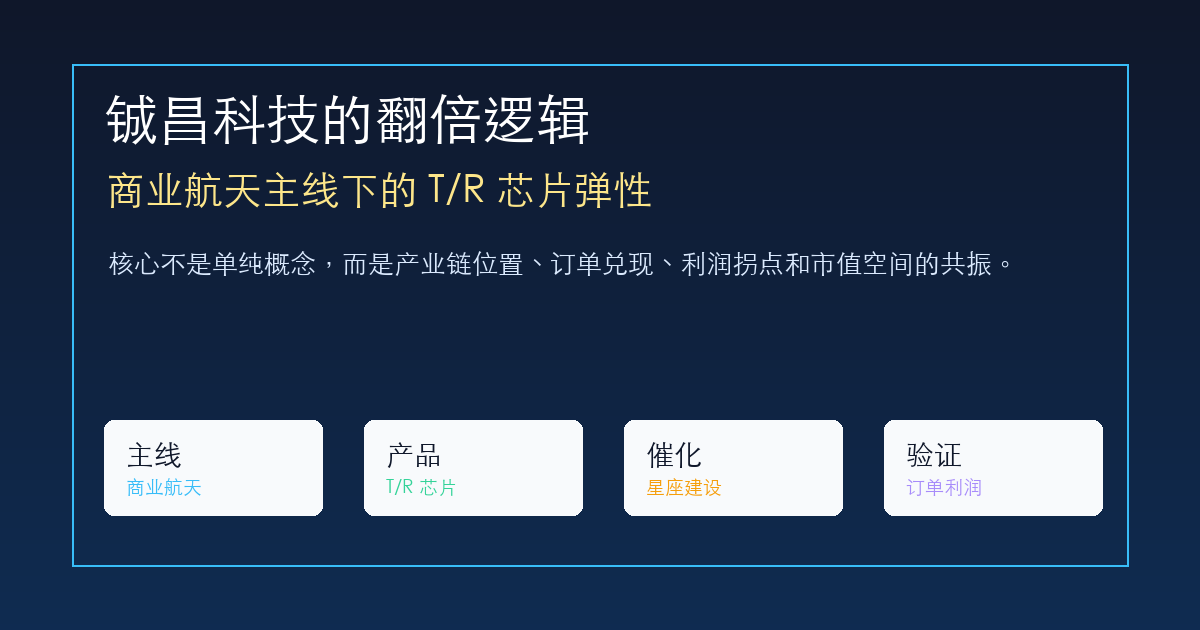
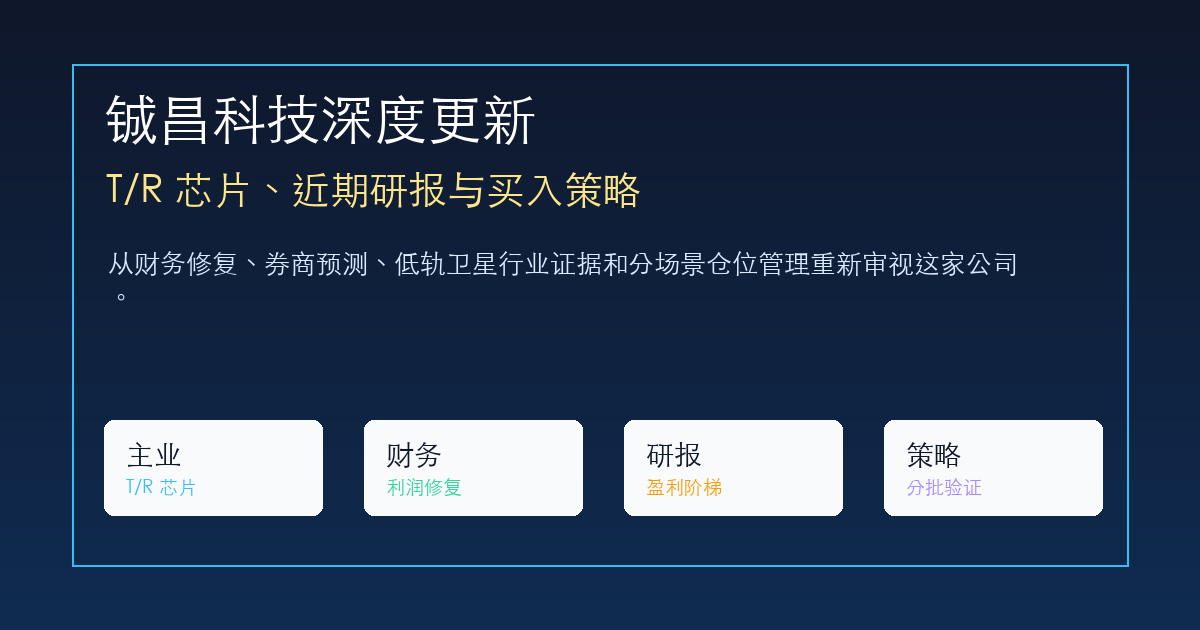
Expand Chengchang Tech research article

diff --git a/2026/chengchang-tech-commercial-aerospace-tr-chip-thesis/index.html b/2026/chengchang-tech-commercial-aerospace-tr-chip-thesis/index.html
@@ -1,9 +1,9 @@
 <!DOCTYPE html><html lang="zh-CN"><head>
   <meta charset="utf-8"><meta name="viewport" content="width=device-width,initial-scale=1,viewport-fit=cover">
-  <meta name="generator" content="Custom static archive"><title>铖昌科技的翻倍逻辑：商业航天主线下的 T/R 芯片弹性 - zcxGGmu's Blog</title>
-  <meta name="description" content="铖昌科技的核心看点，不是简单的商业航天概念，而是相控阵 T/R 芯片在低轨卫星、卫星互联网和国产替代中的产业链位置。翻倍逻辑成立，需要主线、订单、业绩、估值和市值弹性同时兑现。"><meta name="author" content="zcxGGmu"><meta name="theme-color" content="#f8fafc">
+  <meta name="generator" content="Custom static archive"><title>铖昌科技深度更新：T/R 芯片、近期研报与买入策略 - zcxGGmu's Blog</title>
+  <meta name="description" content="铖昌科技的投资价值不能只看商业航天概念，而要拆开 T/R 芯片产品位置、2025 年以来的财务修复、近期券商研报预测、低轨卫星行业证据、估值压力和分场景买入策略。"><meta name="author" content="zcxGGmu"><meta name="theme-color" content="#f8fafc">
   <meta property="og:url" content="https://zcxggmu.github.io/2026/chengchang-tech-commercial-aerospace-tr-chip-thesis/"><meta property="og:site_name" content="zcxGGmu's Blog">
-  <meta property="og:title" content="铖昌科技的翻倍逻辑：商业航天主线下的 T/R 芯片弹性"><meta property="og:description" content="铖昌科技的核心看点，不是简单的商业航天概念，而是相控阵 T/R 芯片在低轨卫星、卫星互联网和国产替代中的产业链位置。翻倍逻辑成立，需要主线、订单、业绩、估值和市值弹性同时兑现。"><meta property="og:locale" content="zh_cn"><meta property="og:type" content="article">
+  <meta property="og:title" content="铖昌科技深度更新：T/R 芯片、近期研报与买入策略"><meta property="og:description" content="铖昌科技的投资价值不能只看商业航天概念，而要拆开 T/R 芯片产品位置、2025 年以来的财务修复、近期券商研报预测、低轨卫星行业证据、估值压力和分场景买入策略。"><meta property="og:locale" content="zh_cn"><meta property="og:type" content="article">
   <meta name="twitter:card" content="summary_large_image"><link rel="canonical" href="https://zcxggmu.github.io/2026/chengchang-tech-commercial-aerospace-tr-chip-thesis/">
   <link rel="icon" type="image/png" sizes="16x16" href="/images/favicon-16.png"><link rel="icon" type="image/png" sizes="32x32" href="/images/favicon-32.png"><link rel="apple-touch-icon" sizes="180x180" href="/images/favicon-180.png"><link rel="icon" type="image/png" sizes="192x192" href="/images/favicon-192.png">
   <script>(function(){var key="blog-theme";var sidebarKey="blog-sidebar-collapsed";var theme="";try{theme=localStorage.getItem(key)||""}catch(_){}if(theme!=="light"&&theme!=="dark"){theme=window.matchMedia&&window.matchMedia("(prefers-color-scheme: dark)").matches?"dark":"light";}document.documentElement.dataset.theme=theme;document.documentElement.style.colorScheme=theme;try{if(localStorage.getItem(sidebarKey)==="1") document.documentElement.classList.add("sidebar-collapsed");}catch(_){}})();</script>
@@ -16,16 +16,46 @@
 <div id="drawer-overlay" class="single-column-drawer-overlay" style="display:none" role="button" tabindex="0" aria-label="关闭菜单" onclick="toggleDrawer()" onkeydown="(event.key===&quot;Enter&quot;||event.key===&quot; &quot;||event.key===&quot;Escape&quot;)&amp;&amp;(event.preventDefault(),toggleDrawer())"></div>
 <nav id="navBar" class="navbar sticky-top navbar-light single-column-nav-container"><div id="navBackground" class="nav-background"></div><div class="container container-narrow nav-content"><button id="nav_dropdown_btn" class="nav-dropdown-toggle" type="button" aria-label="打开菜单" aria-expanded="false" onclick="toggleDrawer()"><span class="nav-menu-symbol" aria-hidden="true">☰</span></button><a id="navTitle" class="navbar-brand" href="/">zcxGGmu's Blog</a><button class="theme-toggle theme-toggle-mobile" type="button" data-theme-toggle title="切换深色模式" aria-label="切换深色模式" aria-pressed="false"><span class="material-icons theme-toggle-icon" aria-hidden="true">dark_mode</span></button></div></nav>
 <div class="single-column-header-container" id="pageHead"><a href="/"><img class="mobile-site-avatar" src="/images/avatar.png" alt="zcxGGmu" loading="lazy"><div class="single-column-header-title">zcxGGmu's Blog</div><div class="single-column-header-subtitle">心无挂碍，无挂碍故，无有恐怖</div></a></div>
-<div id="content"><div id="streamContainer" class="stream-container" role="main"><div id="main-content"></div><div class="post-list-container post-list-container-shadow"><article class="post"><div class="post-head-wrapper" style="background-image:url('/images/posts/chengchang-tech-commercial-aerospace-tr-chip-thesis/cover.png')"><div class="post-title">铖昌科技的翻倍逻辑：商业航天主线下的 T/R 芯片弹性<div class="post-subtitle">铖昌科技的核心看点，不是简单的商业航天概念，而是相控阵 T/R 芯片在低轨卫星、卫星互联网和国产替代中的产业链位置。翻倍逻辑成立，需要主线、订单、业绩、估值和市值弹性同时兑现。</div><div class="post-meta"><time itemprop="datePublished">2026-06-26</time>&nbsp;&nbsp;<span class="meta-icon" aria-hidden="true">▣</span> <a href="/categories/%E6%8A%95%E8%B5%84/">投资</a>&nbsp;&nbsp;<span class="meta-icon" aria-hidden="true">◇</span> <a href="/tags/%E9%93%96%E6%98%8C%E7%A7%91%E6%8A%80/">铖昌科技</a>&nbsp;<a href="/tags/%E5%95%86%E4%B8%9A%E8%88%AA%E5%A4%A9/">商业航天</a>&nbsp;<a href="/tags/%E5%8D%AB%E6%98%9F%E4%BA%92%E8%81%94%E7%BD%91/">卫星互联网</a>&nbsp;<a href="/tags/TR%E8%8A%AF%E7%89%87/">TR芯片</a>&nbsp;<a href="/tags/%E7%9B%B8%E6%8E%A7%E9%98%B5/">相控阵</a>&nbsp;<a href="/tags/%E4%BD%8E%E8%BD%A8%E5%8D%AB%E6%98%9F/">低轨卫星</a>&nbsp;<a href="/tags/A%E8%82%A1/">A股</a>&nbsp;<a href="/tags/%E7%A7%91%E6%8A%80%E6%88%90%E9%95%BF/">科技成长</a>&nbsp;<a href="/tags/%E8%AE%A2%E5%8D%95%E5%85%91%E7%8E%B0/">订单兑现</a>&nbsp;<a href="/tags/%E6%8A%95%E8%B5%84%E5%88%86%E6%9E%90/">投资分析</a>&nbsp;&nbsp;<span class="meta-icon" aria-hidden="true">◷</span> 10 min</div></div></div><div class="post-body-wrapper"><div class="post-body" v-pre>
-<p><img src="/images/posts/chengchang-tech-commercial-aerospace-tr-chip-thesis/cover.png" alt="铖昌科技的翻倍逻辑：商业航天主线下的 T/R 芯片弹性"></p>
+<div id="content"><div id="streamContainer" class="stream-container" role="main"><div id="main-content"></div><div class="post-list-container post-list-container-shadow"><article class="post"><div class="post-head-wrapper" style="background-image:url('/images/posts/chengchang-tech-commercial-aerospace-tr-chip-thesis/cover.png')"><div class="post-title">铖昌科技深度更新：T/R 芯片、近期研报与买入策略<div class="post-subtitle">铖昌科技的投资价值不能只看商业航天概念，而要拆开 T/R 芯片产品位置、2025 年以来的财务修复、近期券商研报预测、低轨卫星行业证据、估值压力和分场景买入策略。</div><div class="post-meta"><time itemprop="datePublished">2026-06-26</time>&nbsp;&nbsp;<span class="meta-icon" aria-hidden="true">▣</span> <a href="/categories/%E6%8A%95%E8%B5%84/">投资</a>&nbsp;&nbsp;<span class="meta-icon" aria-hidden="true">◇</span> <a href="/tags/%E9%93%96%E6%98%8C%E7%A7%91%E6%8A%80/">铖昌科技</a>&nbsp;<a href="/tags/%E5%95%86%E4%B8%9A%E8%88%AA%E5%A4%A9/">商业航天</a>&nbsp;<a href="/tags/%E5%8D%AB%E6%98%9F%E4%BA%92%E8%81%94%E7%BD%91/">卫星互联网</a>&nbsp;<a href="/tags/TR%E8%8A%AF%E7%89%87/">TR芯片</a>&nbsp;<a href="/tags/%E7%9B%B8%E6%8E%A7%E9%98%B5/">相控阵</a>&nbsp;<a href="/tags/%E4%BD%8E%E8%BD%A8%E5%8D%AB%E6%98%9F/">低轨卫星</a>&nbsp;<a href="/tags/A%E8%82%A1/">A股</a>&nbsp;<a href="/tags/%E7%A7%91%E6%8A%80%E6%88%90%E9%95%BF/">科技成长</a>&nbsp;<a href="/tags/%E8%AE%A2%E5%8D%95%E5%85%91%E7%8E%B0/">订单兑现</a>&nbsp;<a href="/tags/%E6%8A%95%E8%B5%84%E5%88%86%E6%9E%90/">投资分析</a>&nbsp;&nbsp;<span class="meta-icon" aria-hidden="true">◷</span> 10 min</div></div></div><div class="post-body-wrapper"><div class="post-body" v-pre>
+<p><img src="/images/posts/chengchang-tech-commercial-aerospace-tr-chip-thesis/cover.png" alt="铖昌科技深度更新：T/R 芯片、近期研报与买入策略"></p>
 <p>铖昌科技的投资讨论，不能只停留在“商业航天概念”四个字上。真正值得拆开的，是它在商业航天产业链里的位置、T/R 芯片的价值量、低轨卫星和卫星互联网建设节奏、订单向头部企业集中的可能性，以及业绩兑现后估值体系变化带来的市值弹性。</p>
 <p>这条逻辑的关键不是喊出确定翻倍，而是回答一个更严肃的问题：在未来一年，如果商业航天成为 A 股科技成长里的重要主线，哪些公司最有可能从主题上涨走向订单、利润和市值的共同重估？铖昌科技之所以值得进入候选名单，原因就在于它不是卖一个远期故事，而是站在相控阵 T/R 芯片这个高价值环节上。</p>
 <p>但前提必须说清楚：翻倍不是确定结果，而是一组条件共同兑现后的可能结果。商业航天要持续成为主线，星网、千帆星座等低轨卫星建设要加速，公司订单要持续兑现，业绩要进入爆发期，市场还要愿意给予更高估值。任何一个条件缺位，逻辑都会打折。</p>
 
-<h2 id="核心结论">核心结论：不是确定翻倍，而是具备翻倍逻辑</h2>
-<p>如果在商业航天这个方向里挑选未来一年具备较高市值弹性的公司，铖昌科技可以进入前三候选。它目前讨论的基础，不是“已经确定会翻倍”，而是“具备翻倍所需要的产业链位置和兑现路径”。</p>
-<p>这里最重要的是先看市值天花板，而不是先讲故事。以二百多亿元市值作为讨论起点，如果商业航天真的成为一条超级主线，那么走到五百亿元以上，并非完全不可想象。A 股科技成长股一旦遇到强产业趋势、稀缺环节和业绩拐点，估值弹性往往会被放大。</p>
-<p>但这不是低估值买便宜资产的逻辑，而是买未来兑现速度的逻辑。换句话说，铖昌科技的核心矛盾不是“它现在便不便宜”，而是“未来订单和利润能不能跑得足够快”。如果跑得快，估值体系可能重估；如果跑得慢，估值就会承压。</p>
+<h2 id="核心结论">核心结论：强赛道、高弹性，也必须接受高验证门槛</h2>
+<p>如果在商业航天这个方向里挑选未来一年具备较高市值弹性的公司，铖昌科技可以进入重点跟踪名单。它目前讨论的基础，不是“已经确定会翻倍”，而是“具备翻倍所需要的产业链位置、业绩修复迹象和行业催化”。</p>
+<p>截至 2026 年 6 月 26 日收盘，铖昌科技报 139.43 元。按公司 2026 年一季报披露的总股本约 2.06 亿股粗略估算，对应总市值约 287 亿元。这个位置已经不是早期冷门底部，也不是低估值捡便宜，而是典型的高预期成长股定价：买的是低轨卫星建设加速、T/R 芯片批产、利润继续上台阶和市场估值扩张的共振。</p>
+<p>因此，本文的结论要分两层说。第一层，铖昌科技在 A 股商业航天链条里具备稀缺性，2025 年和 2026 年一季度财务数据已经从 2024 年低谷中明显修复，券商盈利预测也指向 2026-2028 年利润继续增长。第二层，股价已经提前反映了相当一部分乐观预期，当前买入策略不能用“拍脑袋满仓追高”，而应该用“回调分批、订单验证加仓、业绩不达预期减仓”的动态方式处理。</p>
+<p>一句话概括：铖昌科技是商业航天方向里弹性足够高的标的，但它不是稳健红利股，也不是无脑追涨品种。真正决定后续空间的，不是“低轨卫星故事有多大”，而是 2026 年下半年到 2027 年订单、批产、收入确认、毛利率和现金回款能否同时兑现。</p>
+
+<h2 id="公司画像">公司画像：一家高度集中于 T/R 芯片的相控阵芯片公司</h2>
+<p>铖昌科技全称为浙江铖昌科技股份有限公司，股票代码 001270，主营业务是微波毫米波相控阵 T/R 芯片的研发、生产、销售和技术服务。公司产品覆盖硅基、GaAs、GaN 等工艺路线，应用场景包括星载、地面、机载相控阵雷达以及低轨卫星通信等。</p>
+<p>公司 2025 年报披露，其主要产品包括 GaAs/GaN 功率放大器芯片、GaAs 低噪声放大器芯片、GaAs 收发前端芯片、收发多功能放大器芯片、幅相多功能芯片、模拟波束赋形芯片、数控移相器芯片、数控衰减器芯片、功分器芯片、限幅器芯片等十余类，产品数量达到上千种，频率范围覆盖 L 波段至 W 波段。</p>
+<p>这家公司最鲜明的特点，是收入结构高度集中。2025 年，公司 T/R 芯片销售收入 4.037 亿元，占营业收入 99.78%；研制技术服务收入仅 90.89 万元，占 0.22%。这种结构有好处，也有压力。好处是研究主线非常清楚：只要判断 T/R 芯片需求、订单和毛利率即可；压力是公司几乎没有第二增长曲线来对冲主业务波动，一旦下游建设节奏放慢，业绩弹性也会反向放大。</p>
+<p>2024 年公司因净利润为负且扣除后营业收入低于 3 亿元触及退市风险警示，2025 年度指标修复后，公司公告称股票交易撤销退市风险警示，证券简称由“*ST铖昌”变更为“铖昌科技”。这个变化不能简单理解成利空解除后的情绪修复，更重要的是说明公司已经从 2024 年低谷重新回到可跟踪的成长股框架中。</p>
+
+<h2 id="财务修复">财务修复：2025 扭亏，2026Q1 继续增长</h2>
+<p><img src="/images/posts/chengchang-tech-commercial-aerospace-tr-chip-thesis/financial-dashboard.png" alt="铖昌科技 2025 年报和 2026 一季报财务看板"></p>
+<p>从财务数据看，铖昌科技已经走出 2024 年收入和利润低谷。2025 年，公司实现营业收入 4.046 亿元，同比增长 91.28%；归母净利润 1.171 亿元；扣非归母净利润 1.033 亿元。相比 2024 年归母净利润为 -3111.79 万元、扣非归母净利润为 -4361.40 万元，2025 年的修复非常明确。</p>
+<p>更值得注意的是毛利率和研发投入。2025 年公司营业成本 1.106 亿元，按营业收入和营业成本计算毛利率约 72.68%；东方财富财务接口披露的销售毛利率为 72.68%。公司 2025 年研发投入 1.460 亿元，同比增长 66.14%，研发投入占营业收入比例 36.08%，且资本化金额为 0。这说明公司仍处于高研发强度状态，利润释放并不是靠削研发换来的。</p>
+<p>2026 年一季度，公司实现营业收入 1.039 亿元，同比增长 12.92%；归母净利润 4472.41 万元，同比增长 50.00%；扣非归母净利润 4366.42 万元，同比增长 51.48%；经营活动现金流量净额为 -2095.58 万元，较上年同期改善 76.06%。一季报未经审计，但趋势上可以看到利润增速明显高于收入增速，主要原因是产品结构、毛利率和费用率共同作用。</p>
+<p>财务数据给出的信号是：第一，公司从 2024 年的收入确认和利润压力中恢复；第二，T/R 芯片收入占比极高，主业弹性非常纯；第三，毛利率处于高位，规模效应和产品价值量对利润有明显放大；第四，现金流仍要继续跟踪，尤其是应收账款、票据和存货变化。对于这类航天军工属性较强的公司，利润表好看不够，回款和验收节奏同样关键。</p>
+
+<h2 id="研报梳理">近期券商研报：一致看好成长，分歧在兑现速度</h2>
+<p><img src="/images/posts/chengchang-tech-commercial-aerospace-tr-chip-thesis/broker-consensus.png" alt="铖昌科技近期券商研报梳理"></p>
+<p>截至 2026 年 6 月 26 日，最近一个月内能够公开确认的新券商报告主要是光大证券 2026 年 6 月 2 日发布的《2025年年报及2026年一季报点评：2025年营收接近翻倍增长，持续深耕星载优势板块》。光大证券给出“增持”评级，预测 2026-2028 年归母净利润约 1.73 亿元、2.43 亿元、3.27 亿元。需要注意的是，光大在报告中因为下游需求仍有不确定性，下调了 2026 年和 2027 年盈利预测，并将评级下调至“增持”。这不是单纯唱多，而是“看好成长，但承认节奏不确定”。</p>
+<p>方正证券 2026 年 4 月 16 日的首次覆盖报告《模拟芯片明星企业，低轨卫星等下游市场需求持续上升》给出“推荐”评级，预测 2026-2028 年营业收入约 6.07 亿元、8.49 亿元、11.04 亿元，归母净利润约 1.72 亿元、2.41 亿元、3.32 亿元。这个预测与光大证券非常接近，说明券商对公司未来三年利润台阶的大方向判断较为一致。</p>
+<p>华创证券 2026 年 2 月 8 日的业绩预告点评维持“推荐”评级，核心关注星载 T/R 芯片、低轨通信卫星和地面配套产品进展；中信建投 2025 年 11 月 28 日三季报点评维持“买入”评级，强调星载批量交付、机载批供、地面项目启动实施和毛利率修复。</p>
+<p>把这些研报放在一起看，可以得到三个结论。第一，机构主线高度一致：铖昌科技的核心资产是相控阵 T/R 芯片，增量来自星载、机载、地面和低轨卫星通信。第二，盈利预测集中在 2026 年归母净利润约 1.7 亿元、2027 年约 2.4 亿元、2028 年约 3.3 亿元这一阶梯。第三，分歧不在“有没有赛道”，而在“下游建设和订单确认是否足够快”。</p>
+<p>以 2026 年 6 月 26 日约 287 亿元市值粗略测算，若 2026 年归母净利润 1.7 亿元左右兑现，对应 2026 年动态市盈率约 165-170 倍；若 2028 年 3.3 亿元左右兑现，对应 2028 年预测市盈率也接近 85-90 倍。这个估值并不便宜，意味着市场已经在提前买 2027-2028 年的成长。估值能否维持，取决于后续利润是否持续超预期，而不是仅仅达到预期。</p>
+
+<h2 id="行业证据">国内外行业证据：低轨卫星建设仍在加速</h2>
+<p><img src="/images/posts/chengchang-tech-commercial-aerospace-tr-chip-thesis/industry-evidence.png" alt="低轨卫星和商业航天行业证据"></p>
+<p>海外数据能够证明一件事：低轨卫星互联网不是纯概念，而是已经进入大规模部署阶段。SIA 披露，2024 年全球空间经济规模约 4150 亿美元，其中商业卫星产业约 2930 亿美元；2024 年全球 259 次发射部署 2695 颗卫星，年底在轨运行卫星 11539 颗。SIA 后续披露，2025 年商业卫星发射 296 次，部署卫星 4434 颗，年底全球运行卫星 14266 颗，卫星宽带用户增长至超过 1000 万。</p>
+<p>麦肯锡和世界经济论坛 2024 年报告预计，全球空间经济有望从 2023 年约 6300 亿美元增长到 2035 年 1.8 万亿美元。Deloitte 也预计，到 2030 年宽带卫星数量可能达到 4 万至 5 万颗，服务超过 1000 万终端用户。虽然这些数据不是对铖昌科技单一公司的覆盖，但它们支撑了一个更底层的判断：低轨卫星、卫星宽带、天地一体通信和 D2D 连接正在驱动卫星通信硬件升级。</p>
+<p>相控阵和 T/R 芯片的技术价值也有海外工程资料支撑。NASA 的 Ka 频段有源相控阵资料显示，相控阵终端可以在无机械运动部件的情况下实现快速波束指向；Keysight 对 AESA 架构的说明指出，每个天线单元通常需要功率放大器、低噪声放大器、移相器、衰减器、开关等，并集成到 T/R 模块中。Starlink 的 D2C 文件也提到，为连接普通 4G LTE 手机，需要新型相控阵天线、定制硅芯片和复杂软件算法来解决多普勒、低天线增益和低发射功率问题。</p>
+<p>国内方面，千帆星座、中国星网等低轨星座持续推进。公开报道显示，千帆星座规划最终规模超过万颗，2026 年 4 月第 7 批“一箭十八星”入轨后在轨数量增至 126 颗；2026 年 6 月又有极轨组网卫星发射。中国星网 GW 星座公开报道规划约 1.3 万颗，2026 年 4 月已进行低轨 21 组发射。工信部相关政策提出到 2030 年发展卫星通信用户超千万，并加强基础元器件、芯片、关键终端设备供给。</p>
+<p>不过，行业证据也必须反向使用。千帆星座此前“2025 年一期 648 颗”的规划与 2026 年公开进度之间存在差距，说明国内星座组网会受到发射能力、制造节奏、频率协调、资金、监管和应用商业化的共同制约。也就是说，行业方向很强，但节奏不一定线性。对铖昌科技来说，最重要的是把“行业空间”翻译成“公司订单”和“收入确认”，中间不能省略验证环节。</p>
 
 <h2 id="收益来源">交易和持股：真正的大收益来自主线持有</h2>
 <p>很多投资者喜欢频繁交易，今天看一个热点，明天追一个异动，短线做得很忙，但回头看账户曲线，真正贡献绝大部分收益的，往往不是那些来回切换的交易，而是少数几次站在主线上的持股。</p>
@@ -53,12 +83,23 @@
 <p>第四，业绩要进入爆发期。没有业绩支撑的概念股很难走远，真正强的成长股往往伴随收入和利润的连续上台阶。</p>
 <p>第五，市场要给予更高估值。成长股不是只靠利润增长，估值体系变化也很关键。当市场从“题材股”切换到“稀缺成长股”定价时，市值弹性才会被充分打开。</p>
 
-<h2 id="四层逻辑">行业、国产替代、业绩和市值弹性</h2>
+<h2 id="投资价值">投资价值：行业、国产替代、业绩和市值弹性</h2>
 <p><img src="/images/posts/chengchang-tech-commercial-aerospace-tr-chip-thesis/four-layer-thesis.png" alt="铖昌科技的四层投资逻辑"></p>
 <p>第一层，是行业从零到一。商业航天目前还没有真正进入大规模爆发阶段，但趋势越来越明确。未来几年，星网、千帆星座以及低轨卫星互联网都需要持续发射和建设。每增加一批卫星，就会增加相控阵系统和相关芯片需求，铖昌科技是潜在受益者之一。</p>
 <p>第二层，是国产替代。高端相控阵 T/R 芯片不是谁都能做，技术门槛高，验证周期长，行业参与者少。铖昌科技长期深耕这一领域，在国内星载、机载、地面、卫星通信等相控阵 T/R 芯片市场具有稀缺性。若国内卫星互联网建设提速，订单有可能向头部企业集中。</p>
 <p>第三层，是业绩拐点。市场最喜欢的不是单纯亏损讲故事的成长股，而是从亏损到盈利、从小利润到大利润的业绩拐点。铖昌科技过去一段时间收入和利润已经出现改善，多个卫星相关项目进入批量交付阶段。如果后续从一亿元级别利润向更高利润台阶迈进，估值体系会发生变化。</p>
 <p>第四层，是市值弹性。二百多亿元市值对应的是一个仍在成长初期的稀缺芯片标的。如果商业航天成为超级主线，五百亿元市值并不夸张。真正决定空间的，不是简单给一个目标价，而是判断产业趋势、订单增速、利润弹性和估值扩张能否形成共振。</p>
+<p>但在 2026 年 6 月底这个时点，需要补充一个估值约束。若以 2026 年券商一致预测 1.7 亿元左右归母净利润为基础，当前市值对应的动态估值已经很高；即便用 2028 年 3.3 亿元左右利润预测折算，估值也仍然不低。这意味着铖昌科技的投资价值不是“便宜”，而是“若商业航天进入强主线，公司利润持续超预期，市场愿意用更长周期给稀缺芯片资产定价”。</p>
+<p>所以，投资框架应当从静态估值切换到动态验证：低轨星座发射是否加速，公司低轨卫星通信产品是否持续批量交付，2026 年二季度和三季度收入能否继续增长，毛利率是否保持高位，应收账款和票据是否可控，研发投入能否转化为新产品定型和批产。只要这些变量持续改善，高估值可以被时间消化；一旦这些变量走弱，高估值会变成下跌压力。</p>
+
+<h2 id="买入策略">当前买入策略：用分场景仓位代替单点预测</h2>
+<p><img src="/images/posts/chengchang-tech-commercial-aerospace-tr-chip-thesis/buy-strategy.png" alt="铖昌科技分场景买入策略"></p>
+<p>铖昌科技当前不适合用单一价格判断“能不能买”，更适合用分场景策略处理。</p>
+<p>第一种场景，是强势主线延续。若商业航天、卫星互联网、相控阵芯片继续成为市场主线，股价维持强趋势，短线资金可能继续推高估值。这种情况下，不宜因为害怕踏空而一次性重仓追涨，更合理的是只用观察仓参与，仓位控制在个人科技成长仓位的一小部分，并把止损点放在趋势破坏或成交量衰减后跌破关键均线的位置。强势阶段的核心不是买到最低，而是不在高波动中把仓位打满。</p>
+<p>第二种场景，是冲高后回撤。若股价在短期大涨后出现 15%-25% 的回撤，同时公司公告、行业发射节奏和券商盈利预测没有明显恶化，这反而可能是更合适的第一次正式建仓区间。因为当前估值已经反映较多预期，买点质量比故事本身更重要。回撤买入的前提是基本面逻辑没有破坏，而不是单纯因为跌了就买。</p>
+<p>第三种场景，是业绩验证后加仓。真正值得提高仓位的节点，不是看到概念上涨，而是看到 2026 年中报、三季报或订单/批产公告证明收入和利润继续上台阶。如果 2026 年全年利润向券商预测的 1.7 亿元附近靠拢，同时 2027 年订单可见度提升，那么市场会更愿意把它从“主题股”定价切换成“稀缺成长股”定价。加仓应该发生在验证之后，而不是纯靠预期。</p>
+<p>第四种场景，是逻辑破坏。若低轨卫星发射节奏明显慢于预期，公司收入增速放缓，毛利率快速下行，应收账款和存货继续膨胀，或者券商持续下调 2026-2027 年盈利预测，就应该降低仓位甚至退出观察。成长股投资最忌讳把逻辑破坏解释成正常波动。</p>
+<p>对普通投资者来说，更稳妥的组合方式是：观察仓不超过计划仓位的 20%-30%；回撤且基本面未变时再加到 50%；订单和财报验证后再考虑提高到 70%-80%；不使用融资追涨，不把单一高波动成长股做成重仓押注。铖昌科技的赔率来自产业趋势和市值弹性，风险也来自同一个地方。</p>
 
 <h2 id="三大催化">未来一年最关键的三类催化</h2>
 <p>未来一年，铖昌科技最重要的催化可以归纳为三类。</p>
@@ -81,6 +122,20 @@
 <p>第四，板块热度下降。商业航天是强主题，但主题资金也会轮动。一旦市场转向其他方向，板块估值可能阶段性承压。对于弹性标的来说，买点和节奏同样重要。</p>
 <p>因此，这类公司更适合用“产业主线 + 订单验证 + 业绩跟踪”的方式研究，而不是只靠概念做静态判断。真正的风险控制，是在逻辑破坏时及时承认，而不是把所有波动都解释成洗盘。</p>
 
+<h2 id="跟踪清单">跟踪清单：后续只看可验证变量</h2>
+<p><img src="/images/posts/chengchang-tech-commercial-aerospace-tr-chip-thesis/tracking-checklist.png" alt="铖昌科技后续跟踪清单"></p>
+<p>后续跟踪铖昌科技，不需要每天被股价牵着走，真正重要的是几个可验证变量。</p>
+<p>第一，低轨星座发射和组网进度。重点看千帆、中国星网等公开发射批次、卫星数量和组网节奏。如果行业建设明显慢于预期，产业链订单释放就会后移。</p>
+<p>第二，公司订单和批产表述。官方公告和定期报告中若持续出现“批量交付”“新增订单”“按计划交付”“多款产品进入量产”等表述，并且最终体现在收入增长上，逻辑才算继续强化。当前未能确认公司公开披露具体低轨星座客户名称、商业航天订单金额或单独批产合同金额，所以不能把行业空间直接等同于公司订单。</p>
+<p>第三，利润表质量。重点看收入增速、毛利率、研发费用率、扣非净利润和经营现金流。高毛利是估值溢价的重要来源，若毛利率快速下降，说明产品结构、价格或竞争格局可能出现变化。</p>
+<p>第四，资产负债表风险。重点看应收账款及票据、存货和合同负债。航天链条验收和回款周期较长，如果利润增长伴随应收快速堆积，就需要打折看待业绩质量。</p>
+<p>第五，券商盈利预测变化。当前公开研报预测大致指向 2026-2028 年归母净利润 1.7 亿元、2.4 亿元、3.3 亿元的阶梯。如果后续机构持续上调，说明订单和利润可见度提高；如果持续下调，说明此前高估值基础被削弱。</p>
+
+<h2 id="资料来源">资料来源与口径说明</h2>
+<p>本文使用的公司数据主要来自铖昌科技 2025 年年度报告、2026 年第一季度报告、撤销退市风险警示公告，以及东方财富财务接口和新浪财经公告镜像。2025 年公司实现营业收入 4.046 亿元、归母净利润 1.171 亿元、扣非归母净利润 1.033 亿元；2026 年一季度实现营业收入 1.039 亿元、归母净利润 4472.41 万元、扣非归母净利润 4366.42 万元。</p>
+<p>券商研报部分仅摘取公开可见的报告日期、标题、评级、盈利预测和摘要观点，不复制研报正文。公开可见的新近覆盖包括光大证券 2026 年 6 月 2 日年报及一季报点评、方正证券 2026 年 4 月 16 日首次覆盖、华创证券 2026 年 2 月 8 日业绩预告点评、中信建投 2025 年 11 月 28 日三季报点评。</p>
+<p>海外和行业资料用于支撑卫星互联网、低轨星座、相控阵和 T/R 模块需求逻辑，不代表海外机构直接覆盖或推荐铖昌科技。公开资料包括 SIA 卫星产业报告、麦肯锡/WEF 空间经济报告、Deloitte 空间经济展望、NASA 相控阵资料、Keysight AESA 架构说明、Starlink D2C 文件，以及国内关于千帆星座、中国星网和卫星通信政策的公开报道。</p>
+
 <h2 id="结论">结论：核心看 2026 下半年到 2027 的兑现速度</h2>
 <p><img src="/images/posts/chengchang-tech-commercial-aerospace-tr-chip-thesis/conclusion-map.png" alt="铖昌科技投资结论"></p>
 <p>综合来看，铖昌科技不是 A 股确定性最高的科技股，但可能是商业航天方向里翻倍赔率较高的一批标的之一。它的优势在于产业链位置稀缺、T/R 芯片价值量高、商业航天方向具备长期空间，并且公司处在从主题预期走向订单和业绩兑现的关键阶段。</p>
@@ -89,5 +144,5 @@
 <p>本文仅作产业和公司逻辑梳理，不构成任何投资建议。科技成长股波动大、估值敏感、预期变化快，所有判断都必须回到公开信息、订单进展、财务数据和风险承受能力上。</p>
 </div></div></article></div></div></div>
 <div class="side-container"><div class="nav-head"><a href="/" style="text-decoration:none;color:inherit"><div class="nav-title">🌀zcxGGmu's Blog</div><div class="nav-subtitle">心无挂碍，无挂碍故，无有恐怖</div></a></div><div class="nav-link-list"><a class="a-block nav-link-item active" href="/">文章📖</a><a class="a-block nav-link-item false" href="/categories/">分类📌</a><a class="a-block nav-link-item false" href="/tags/">标签🏷</a><a class="a-block nav-link-item false" href="/series/">系列📚</a><a class="a-block nav-link-item false" href="/archive/">归档📃</a><a class="a-block nav-link-item false" href="/about/">关于👋</a><a class="a-block nav-link-item false" href="/friends/">友链🔗</a><a class="a-block nav-link-item false" href="/index.xml">RSS📢</a></div><div class="nav-footer"><a href="https://github.com/zcxGGmu" target="_blank" rel="noopener noreferrer">GitHub</a><br><a href="mailto:placeholder@example.com">Email</a><br><a href="/index.xml">RSS</a><br><hr>魔改自 <a href="https://github.com/AmazingRise/hugo-theme-diary" target="_blank" rel="noopener noreferrer">Diary</a> by <a href="/">zcxGGmu</a><br>© 2026 zcxGGmu's Blog<br><span>备案信息占位</span></div></div>
-<div id="extraContainer" class="extra-container"><div class="toc-wrapper"><div class="toc"><div class="toc-title">目录</div><nav><a class="toc-link toc-level-2" href="#核心结论">核心结论：不是确定翻倍，而是具备翻倍逻辑</a><a class="toc-link toc-level-2" href="#收益来源">交易和持股：真正的大收益来自主线持有</a><a class="toc-link toc-level-2" href="#产品本质">铖昌科技真正卖的是什么</a><a class="toc-link toc-level-2" href="#赛道判断">商业航天为什么像早期新能源</a><a class="toc-link toc-level-2" href="#五个条件">翻倍需要同时满足的五个条件</a><a class="toc-link toc-level-2" href="#四层逻辑">行业、国产替代、业绩和市值弹性</a><a class="toc-link toc-level-2" href="#三大催化">未来一年最关键的三类催化</a><a class="toc-link toc-level-2" href="#机构预期">为什么早期不拥挤反而是优势</a><a class="toc-link toc-level-2" href="#风险边界">最大的风险不是没有故事，而是兑现太慢</a><a class="toc-link toc-level-2" href="#结论">结论：核心看 2026 下半年到 2027 的兑现速度</a></nav></div></div><div class="pagination"><a id="globalBackToTop" class="pagination-action animated-visibility invisible" href="#top"><span class="pagination-action-icon" aria-hidden="true">↑</span></a></div></div>
+<div id="extraContainer" class="extra-container"><div class="toc-wrapper"><div class="toc"><div class="toc-title">目录</div><nav><a class="toc-link toc-level-2" href="#核心结论">核心结论：强赛道、高弹性，也必须接受高验证门槛</a><a class="toc-link toc-level-2" href="#公司画像">公司画像：一家高度集中于 T/R 芯片的相控阵芯片公司</a><a class="toc-link toc-level-2" href="#财务修复">财务修复：2025 扭亏，2026Q1 继续增长</a><a class="toc-link toc-level-2" href="#研报梳理">近期券商研报：一致看好成长，分歧在兑现速度</a><a class="toc-link toc-level-2" href="#行业证据">国内外行业证据：低轨卫星建设仍在加速</a><a class="toc-link toc-level-2" href="#收益来源">交易和持股：真正的大收益来自主线持有</a><a class="toc-link toc-level-2" href="#产品本质">产品本质：铖昌科技真正卖的是什么</a><a class="toc-link toc-level-2" href="#赛道判断">商业航天为什么像早期新能源</a><a class="toc-link toc-level-2" href="#五个条件">翻倍需要同时满足的五个条件</a><a class="toc-link toc-level-2" href="#投资价值">投资价值：行业、国产替代、业绩和市值弹性</a><a class="toc-link toc-level-2" href="#买入策略">当前买入策略：用分场景仓位代替单点预测</a><a class="toc-link toc-level-2" href="#三大催化">未来一年最关键的三类催化</a><a class="toc-link toc-level-2" href="#机构预期">为什么早期不拥挤反而是优势</a><a class="toc-link toc-level-2" href="#风险边界">风险边界：最大的风险不是没故事，而是兑现太慢</a><a class="toc-link toc-level-2" href="#跟踪清单">跟踪清单：后续只看可验证变量</a><a class="toc-link toc-level-2" href="#资料来源">资料来源与口径说明</a><a class="toc-link toc-level-2" href="#结论">结论：核心看 2026 下半年到 2027 的兑现速度</a></nav></div></div><div class="pagination"><a id="globalBackToTop" class="pagination-action animated-visibility invisible" href="#top"><span class="pagination-action-icon" aria-hidden="true">↑</span></a></div></div>
 <div id="single-column-footer"><a href="https://github.com/zcxGGmu" target="_blank" rel="noopener noreferrer">GitHub</a><br><a href="mailto:placeholder@example.com">Email</a><br><a href="/index.xml">RSS</a><br><hr>魔改自 Diary by zcxGGmu<br>© 2026 zcxGGmu's Blog</div></div><script src="/js/journal.js"></script><script src="/js/code-enhance.js"></script></body></html>

diff --git a/tags/卫星互联网/index.html b/tags/卫星互联网/index.html
@@ -1,5 +1,5 @@
 <!DOCTYPE html><html lang="zh-CN"><head><meta charset="utf-8"><meta name="viewport" content="width=device-width,initial-scale=1,viewport-fit=cover"><meta name="theme-color" content="#f8fafc"><meta name="description" content="卫星互联网"><meta property="og:title" content="卫星互联网 - zcxGGmu's Blog"><link rel="canonical" href="https://zcxggmu.github.io/tags/%E5%8D%AB%E6%98%9F%E4%BA%92%E8%81%94%E7%BD%91/"><link rel="stylesheet" href="/scss/journal.min.css"><link rel="stylesheet" href="/scss/modern.min.css?v=20260607-sidebar-collapse"><link rel="stylesheet" href="https://fonts.googleapis.com/css2?family=Plus+Jakarta+Sans:wght@400;500;600;700;800&family=Noto+Sans+SC:wght@400;500;700&family=JetBrains+Mono:wght@400;500;600;700&display=swap"><link rel="stylesheet" href="https://fonts.googleapis.com/css?family=Material+Icons&display=swap"><title>卫星互联网 - zcxGGmu's Blog</title></head><body><div class="stream-container"><div class="post-list-container" style="min-height:100vh"><div style="padding:40px 35px"><h1 style="font-size:30px;font-weight:500;margin-bottom:10px">🏷 卫星互联网</h1><p style="color:#999;margin-bottom:30px">共 1 篇文章</p><div style="padding:12px 0;border-bottom:1px solid rgba(128,128,128,0.08)">
-        <a href="/2026/chengchang-tech-commercial-aerospace-tr-chip-thesis/" style="font-size:16px;text-decoration:none">铖昌科技的翻倍逻辑：商业航天主线下的 T/R 芯片弹性</a>
+        <a href="/2026/chengchang-tech-commercial-aerospace-tr-chip-thesis/" style="font-size:16px;text-decoration:none">铖昌科技深度更新：T/R 芯片、近期研报与买入策略</a>
         <span style="color:#999;font-size:13px;margin-left:10px">2026-06-26</span>
       </div>
 </div></div></div><script src="/js/journal.js"></script></body></html>

diff --git a/tags/低轨卫星/index.html b/tags/低轨卫星/index.html
@@ -1,5 +1,5 @@
 <!DOCTYPE html><html lang="zh-CN"><head><meta charset="utf-8"><meta name="viewport" content="width=device-width,initial-scale=1,viewport-fit=cover"><meta name="theme-color" content="#f8fafc"><meta name="description" content="低轨卫星"><meta property="og:title" content="低轨卫星 - zcxGGmu's Blog"><link rel="canonical" href="https://zcxggmu.github.io/tags/%E4%BD%8E%E8%BD%A8%E5%8D%AB%E6%98%9F/"><link rel="stylesheet" href="/scss/journal.min.css"><link rel="stylesheet" href="/scss/modern.min.css?v=20260607-sidebar-collapse"><link rel="stylesheet" href="https://fonts.googleapis.com/css2?family=Plus+Jakarta+Sans:wght@400;500;600;700;800&family=Noto+Sans+SC:wght@400;500;700&family=JetBrains+Mono:wght@400;500;600;700&display=swap"><link rel="stylesheet" href="https://fonts.googleapis.com/css?family=Material+Icons&display=swap"><title>低轨卫星 - zcxGGmu's Blog</title></head><body><div class="stream-container"><div class="post-list-container" style="min-height:100vh"><div style="padding:40px 35px"><h1 style="font-size:30px;font-weight:500;margin-bottom:10px">🏷 低轨卫星</h1><p style="color:#999;margin-bottom:30px">共 1 篇文章</p><div style="padding:12px 0;border-bottom:1px solid rgba(128,128,128,0.08)">
-        <a href="/2026/chengchang-tech-commercial-aerospace-tr-chip-thesis/" style="font-size:16px;text-decoration:none">铖昌科技的翻倍逻辑：商业航天主线下的 T/R 芯片弹性</a>
+        <a href="/2026/chengchang-tech-commercial-aerospace-tr-chip-thesis/" style="font-size:16px;text-decoration:none">铖昌科技深度更新：T/R 芯片、近期研报与买入策略</a>
         <span style="color:#999;font-size:13px;margin-left:10px">2026-06-26</span>
       </div>
 </div></div></div><script src="/js/journal.js"></script></body></html>

diff --git a/tags/商业航天/index.html b/tags/商业航天/index.html
@@ -1,5 +1,5 @@
 <!DOCTYPE html><html lang="zh-CN"><head><meta charset="utf-8"><meta name="viewport" content="width=device-width,initial-scale=1,viewport-fit=cover"><meta name="theme-color" content="#f8fafc"><meta name="description" content="商业航天"><meta property="og:title" content="商业航天 - zcxGGmu's Blog"><link rel="canonical" href="https://zcxggmu.github.io/tags/%E5%95%86%E4%B8%9A%E8%88%AA%E5%A4%A9/"><link rel="stylesheet" href="/scss/journal.min.css"><link rel="stylesheet" href="/scss/modern.min.css?v=20260607-sidebar-collapse"><link rel="stylesheet" href="https://fonts.googleapis.com/css2?family=Plus+Jakarta+Sans:wght@400;500;600;700;800&family=Noto+Sans+SC:wght@400;500;700&family=JetBrains+Mono:wght@400;500;600;700&display=swap"><link rel="stylesheet" href="https://fonts.googleapis.com/css?family=Material+Icons&display=swap"><title>商业航天 - zcxGGmu's Blog</title></head><body><div class="stream-container"><div class="post-list-container" style="min-height:100vh"><div style="padding:40px 35px"><h1 style="font-size:30px;font-weight:500;margin-bottom:10px">🏷 商业航天</h1><p style="color:#999;margin-bottom:30px">共 1 篇文章</p><div style="padding:12px 0;border-bottom:1px solid rgba(128,128,128,0.08)">
-        <a href="/2026/chengchang-tech-commercial-aerospace-tr-chip-thesis/" style="font-size:16px;text-decoration:none">铖昌科技的翻倍逻辑：商业航天主线下的 T/R 芯片弹性</a>
+        <a href="/2026/chengchang-tech-commercial-aerospace-tr-chip-thesis/" style="font-size:16px;text-decoration:none">铖昌科技深度更新：T/R 芯片、近期研报与买入策略</a>
         <span style="color:#999;font-size:13px;margin-left:10px">2026-06-26</span>
       </div>
 </div></div></div><script src="/js/journal.js"></script></body></html>

diff --git a/tags/科技成长/index.html b/tags/科技成长/index.html
@@ -1,5 +1,5 @@
 <!DOCTYPE html><html lang="zh-CN"><head><meta charset="utf-8"><meta name="viewport" content="width=device-width,initial-scale=1,viewport-fit=cover"><meta name="theme-color" content="#f8fafc"><meta name="description" content="科技成长"><meta property="og:title" content="科技成长 - zcxGGmu's Blog"><link rel="canonical" href="https://zcxggmu.github.io/tags/%E7%A7%91%E6%8A%80%E6%88%90%E9%95%BF/"><link rel="stylesheet" href="/scss/journal.min.css"><link rel="stylesheet" href="/scss/modern.min.css?v=20260607-sidebar-collapse"><link rel="stylesheet" href="https://fonts.googleapis.com/css2?family=Plus+Jakarta+Sans:wght@400;500;600;700;800&family=Noto+Sans+SC:wght@400;500;700&family=JetBrains+Mono:wght@400;500;600;700&display=swap"><link rel="stylesheet" href="https://fonts.googleapis.com/css?family=Material+Icons&display=swap"><title>科技成长 - zcxGGmu's Blog</title></head><body><div class="stream-container"><div class="post-list-container" style="min-height:100vh"><div style="padding:40px 35px"><h1 style="font-size:30px;font-weight:500;margin-bottom:10px">🏷 科技成长</h1><p style="color:#999;margin-bottom:30px">共 1 篇文章</p><div style="padding:12px 0;border-bottom:1px solid rgba(128,128,128,0.08)">
-        <a href="/2026/chengchang-tech-commercial-aerospace-tr-chip-thesis/" style="font-size:16px;text-decoration:none">铖昌科技的翻倍逻辑：商业航天主线下的 T/R 芯片弹性</a>
+        <a href="/2026/chengchang-tech-commercial-aerospace-tr-chip-thesis/" style="font-size:16px;text-decoration:none">铖昌科技深度更新：T/R 芯片、近期研报与买入策略</a>
         <span style="color:#999;font-size:13px;margin-left:10px">2026-06-26</span>
       </div>
 </div></div></div><script src="/js/journal.js"></script></body></html>

diff --git a/tags/订单兑现/index.html b/tags/订单兑现/index.html
@@ -1,5 +1,5 @@
 <!DOCTYPE html><html lang="zh-CN"><head><meta charset="utf-8"><meta name="viewport" content="width=device-width,initial-scale=1,viewport-fit=cover"><meta name="theme-color" content="#f8fafc"><meta name="description" content="订单兑现"><meta property="og:title" content="订单兑现 - zcxGGmu's Blog"><link rel="canonical" href="https://zcxggmu.github.io/tags/%E8%AE%A2%E5%8D%95%E5%85%91%E7%8E%B0/"><link rel="stylesheet" href="/scss/journal.min.css"><link rel="stylesheet" href="/scss/modern.min.css?v=20260607-sidebar-collapse"><link rel="stylesheet" href="https://fonts.googleapis.com/css2?family=Plus+Jakarta+Sans:wght@400;500;600;700;800&family=Noto+Sans+SC:wght@400;500;700&family=JetBrains+Mono:wght@400;500;600;700&display=swap"><link rel="stylesheet" href="https://fonts.googleapis.com/css?family=Material+Icons&display=swap"><title>订单兑现 - zcxGGmu's Blog</title></head><body><div class="stream-container"><div class="post-list-container" style="min-height:100vh"><div style="padding:40px 35px"><h1 style="font-size:30px;font-weight:500;margin-bottom:10px">🏷 订单兑现</h1><p style="color:#999;margin-bottom:30px">共 1 篇文章</p><div style="padding:12px 0;border-bottom:1px solid rgba(128,128,128,0.08)">
-        <a href="/2026/chengchang-tech-commercial-aerospace-tr-chip-thesis/" style="font-size:16px;text-decoration:none">铖昌科技的翻倍逻辑：商业航天主线下的 T/R 芯片弹性</a>
+        <a href="/2026/chengchang-tech-commercial-aerospace-tr-chip-thesis/" style="font-size:16px;text-decoration:none">铖昌科技深度更新：T/R 芯片、近期研报与买入策略</a>
         <span style="color:#999;font-size:13px;margin-left:10px">2026-06-26</span>
       </div>
 </div></div></div><script src="/js/journal.js"></script></body></html>

diff --git a/tags/铖昌科技/index.html b/tags/铖昌科技/index.html
@@ -1,5 +1,5 @@
 <!DOCTYPE html><html lang="zh-CN"><head><meta charset="utf-8"><meta name="viewport" content="width=device-width,initial-scale=1,viewport-fit=cover"><meta name="theme-color" content="#f8fafc"><meta name="description" content="铖昌科技"><meta property="og:title" content="铖昌科技 - zcxGGmu's Blog"><link rel="canonical" href="https://zcxggmu.github.io/tags/%E9%93%96%E6%98%8C%E7%A7%91%E6%8A%80/"><link rel="stylesheet" href="/scss/journal.min.css"><link rel="stylesheet" href="/scss/modern.min.css?v=20260607-sidebar-collapse"><link rel="stylesheet" href="https://fonts.googleapis.com/css2?family=Plus+Jakarta+Sans:wght@400;500;600;700;800&family=Noto+Sans+SC:wght@400;500;700&family=JetBrains+Mono:wght@400;500;600;700&display=swap"><link rel="stylesheet" href="https://fonts.googleapis.com/css?family=Material+Icons&display=swap"><title>铖昌科技 - zcxGGmu's Blog</title></head><body><div class="stream-container"><div class="post-list-container" style="min-height:100vh"><div style="padding:40px 35px"><h1 style="font-size:30px;font-weight:500;margin-bottom:10px">🏷 铖昌科技</h1><p style="color:#999;margin-bottom:30px">共 1 篇文章</p><div style="padding:12px 0;border-bottom:1px solid rgba(128,128,128,0.08)">
-        <a href="/2026/chengchang-tech-commercial-aerospace-tr-chip-thesis/" style="font-size:16px;text-decoration:none">铖昌科技的翻倍逻辑：商业航天主线下的 T/R 芯片弹性</a>
+        <a href="/2026/chengchang-tech-commercial-aerospace-tr-chip-thesis/" style="font-size:16px;text-decoration:none">铖昌科技深度更新：T/R 芯片、近期研报与买入策略</a>
         <span style="color:#999;font-size:13px;margin-left:10px">2026-06-26</span>
       </div>
 </div></div></div><script src="/js/journal.js"></script></body></html>

diff --git a/tags/相控阵/index.html b/tags/相控阵/index.html
@@ -1,5 +1,5 @@
 <!DOCTYPE html><html lang="zh-CN"><head><meta charset="utf-8"><meta name="viewport" content="width=device-width,initial-scale=1,viewport-fit=cover"><meta name="theme-color" content="#f8fafc"><meta name="description" content="相控阵"><meta property="og:title" content="相控阵 - zcxGGmu's Blog"><link rel="canonical" href="https://zcxggmu.github.io/tags/%E7%9B%B8%E6%8E%A7%E9%98%B5/"><link rel="stylesheet" href="/scss/journal.min.css"><link rel="stylesheet" href="/scss/modern.min.css?v=20260607-sidebar-collapse"><link rel="stylesheet" href="https://fonts.googleapis.com/css2?family=Plus+Jakarta+Sans:wght@400;500;600;700;800&family=Noto+Sans+SC:wght@400;500;700&family=JetBrains+Mono:wght@400;500;600;700&display=swap"><link rel="stylesheet" href="https://fonts.googleapis.com/css?family=Material+Icons&display=swap"><title>相控阵 - zcxGGmu's Blog</title></head><body><div class="stream-container"><div class="post-list-container" style="min-height:100vh"><div style="padding:40px 35px"><h1 style="font-size:30px;font-weight:500;margin-bottom:10px">🏷 相控阵</h1><p style="color:#999;margin-bottom:30px">共 1 篇文章</p><div style="padding:12px 0;border-bottom:1px solid rgba(128,128,128,0.08)">
-        <a href="/2026/chengchang-tech-commercial-aerospace-tr-chip-thesis/" style="font-size:16px;text-decoration:none">铖昌科技的翻倍逻辑：商业航天主线下的 T/R 芯片弹性</a>
+        <a href="/2026/chengchang-tech-commercial-aerospace-tr-chip-thesis/" style="font-size:16px;text-decoration:none">铖昌科技深度更新：T/R 芯片、近期研报与买入策略</a>
         <span style="color:#999;font-size:13px;margin-left:10px">2026-06-26</span>
       </div>
 </div></div></div><script src="/js/journal.js"></script></body></html>

diff --git a/tags/TR芯片/index.html b/tags/TR芯片/index.html
@@ -1,5 +1,5 @@
 <!DOCTYPE html><html lang="zh-CN"><head><meta charset="utf-8"><meta name="viewport" content="width=device-width,initial-scale=1,viewport-fit=cover"><meta name="theme-color" content="#f8fafc"><meta name="description" content="TR芯片"><meta property="og:title" content="TR芯片 - zcxGGmu's Blog"><link rel="canonical" href="https://zcxggmu.github.io/tags/TR%E8%8A%AF%E7%89%87/"><link rel="stylesheet" href="/scss/journal.min.css"><link rel="stylesheet" href="/scss/modern.min.css?v=20260607-sidebar-collapse"><link rel="stylesheet" href="https://fonts.googleapis.com/css2?family=Plus+Jakarta+Sans:wght@400;500;600;700;800&family=Noto+Sans+SC:wght@400;500;700&family=JetBrains+Mono:wght@400;500;600;700&display=swap"><link rel="stylesheet" href="https://fonts.googleapis.com/css?family=Material+Icons&display=swap"><title>TR芯片 - zcxGGmu's Blog</title></head><body><div class="stream-container"><div class="post-list-container" style="min-height:100vh"><div style="padding:40px 35px"><h1 style="font-size:30px;font-weight:500;margin-bottom:10px">🏷 TR芯片</h1><p style="color:#999;margin-bottom:30px">共 1 篇文章</p><div style="padding:12px 0;border-bottom:1px solid rgba(128,128,128,0.08)">
-        <a href="/2026/chengchang-tech-commercial-aerospace-tr-chip-thesis/" style="font-size:16px;text-decoration:none">铖昌科技的翻倍逻辑：商业航天主线下的 T/R 芯片弹性</a>
+        <a href="/2026/chengchang-tech-commercial-aerospace-tr-chip-thesis/" style="font-size:16px;text-decoration:none">铖昌科技深度更新：T/R 芯片、近期研报与买入策略</a>
         <span style="color:#999;font-size:13px;margin-left:10px">2026-06-26</span>
       </div>
 </div></div></div><script src="/js/journal.js"></script></body></html>

diff --git a/tags/A股/index.html b/tags/A股/index.html
@@ -1,5 +1,5 @@
 <!DOCTYPE html><html lang="zh-CN"><head><meta charset="utf-8"><meta name="viewport" content="width=device-width,initial-scale=1,viewport-fit=cover"><meta name="theme-color" content="#f8fafc"><meta name="description" content="A股"><meta property="og:title" content="A股 - zcxGGmu's Blog"><link rel="canonical" href="https://zcxggmu.github.io/tags/A%E8%82%A1/"><link rel="stylesheet" href="/scss/journal.min.css"><link rel="stylesheet" href="/scss/modern.min.css?v=20260607-sidebar-collapse"><link rel="stylesheet" href="https://fonts.googleapis.com/css2?family=Plus+Jakarta+Sans:wght@400;500;600;700;800&family=Noto+Sans+SC:wght@400;500;700&family=JetBrains+Mono:wght@400;500;600;700&display=swap"><link rel="stylesheet" href="https://fonts.googleapis.com/css?family=Material+Icons&display=swap"><title>A股 - zcxGGmu's Blog</title></head><body><div class="stream-container"><div class="post-list-container" style="min-height:100vh"><div style="padding:40px 35px"><h1 style="font-size:30px;font-weight:500;margin-bottom:10px">🏷 A股</h1><p style="color:#999;margin-bottom:30px">共 2 篇文章</p><div style="padding:12px 0;border-bottom:1px solid rgba(128,128,128,0.08)">
-        <a href="/2026/chengchang-tech-commercial-aerospace-tr-chip-thesis/" style="font-size:16px;text-decoration:none">铖昌科技的翻倍逻辑：商业航天主线下的 T/R 芯片弹性</a>
+        <a href="/2026/chengchang-tech-commercial-aerospace-tr-chip-thesis/" style="font-size:16px;text-decoration:none">铖昌科技深度更新：T/R 芯片、近期研报与买入策略</a>
         <span style="color:#999;font-size:13px;margin-left:10px">2026-06-26</span>
       </div>
 <div style="padding:12px 0;border-bottom:1px solid rgba(128,128,128,0.08)">

diff --git a/index.html b/index.html
@@ -99,13 +99,12 @@
         </div>
       </div>
     </a>
-
-    <a href="/2026/chengchang-tech-commercial-aerospace-tr-chip-thesis/" class="a-block">
+<a href="/2026/chengchang-tech-commercial-aerospace-tr-chip-thesis/" class="a-block">
       <div class="post-item-wrapper ">
         <div class="post-item post-item-no-divider">
           <div class="post-item-info-wrapper">
-            <div class="post-item-title">铖昌科技的翻倍逻辑：商业航天主线下的 T/R 芯片弹性</div>
-            <div class="post-item-summary">铖昌科技的核心看点，不是简单的商业航天概念，而是相控阵 T/R 芯片在低轨卫星、卫星互联网和国产替代中的产业链位置。翻倍逻辑成立，需要主线、订单、业绩、估值和市值弹性同时兑现。</div>
+            <div class="post-item-title">铖昌科技深度更新：T/R 芯片、近期研报与买入策略</div>
+            <div class="post-item-summary">铖昌科技的投资价值不能只看商业航天概念，而要拆开 T/R 芯片产品位置、2025 年以来的财务修复、近期券商研报预测、低轨卫星行业证据、估值压力和分场景买入策略。</div>
             <div class="post-item-meta">2026-06-26&nbsp;&nbsp;<span class="meta-icon" aria-hidden="true">◷</span> 10 min&nbsp;&nbsp;</div>
           </div>
           <div class="post-item-image-wrapper"><div class="post-item-image" style="background-image:url('/images/posts/chengchang-tech-commercial-aerospace-tr-chip-thesis/cover.png')"></div></div>

diff --git a/series/公司研究/index.html b/series/公司研究/index.html
@@ -17,7 +17,7 @@
 <div class="extra-container"><div class="pagination"><button class="pagination-action" onclick="history.back()"><span class="material-icons pagination-action-icon">keyboard_arrow_up</span></button></div></div>
 <div class="stream-container"><div class="post-list-container" style="min-height:100vh"><div style="padding:40px 35px"><h1 style="font-size:30px;font-weight:500;margin-bottom:10px">📚 公司研究</h1><p style="color:#999;margin-bottom:30px">共 18 篇文章</p>
 <div style="padding:12px 0;border-bottom:1px solid rgba(128,128,128,0.08)">
-        <a href="/2026/chengchang-tech-commercial-aerospace-tr-chip-thesis/" style="font-size:16px;text-decoration:none">铖昌科技的翻倍逻辑：商业航天主线下的 T/R 芯片弹性</a>
+        <a href="/2026/chengchang-tech-commercial-aerospace-tr-chip-thesis/" style="font-size:16px;text-decoration:none">铖昌科技深度更新：T/R 芯片、近期研报与买入策略</a>
         <span style="color:#999;font-size:13px;margin-left:10px">2026-06-26</span>
       </div>
 <div style="padding:12px 0;border-bottom:1px solid rgba(128,128,128,0.08)">
